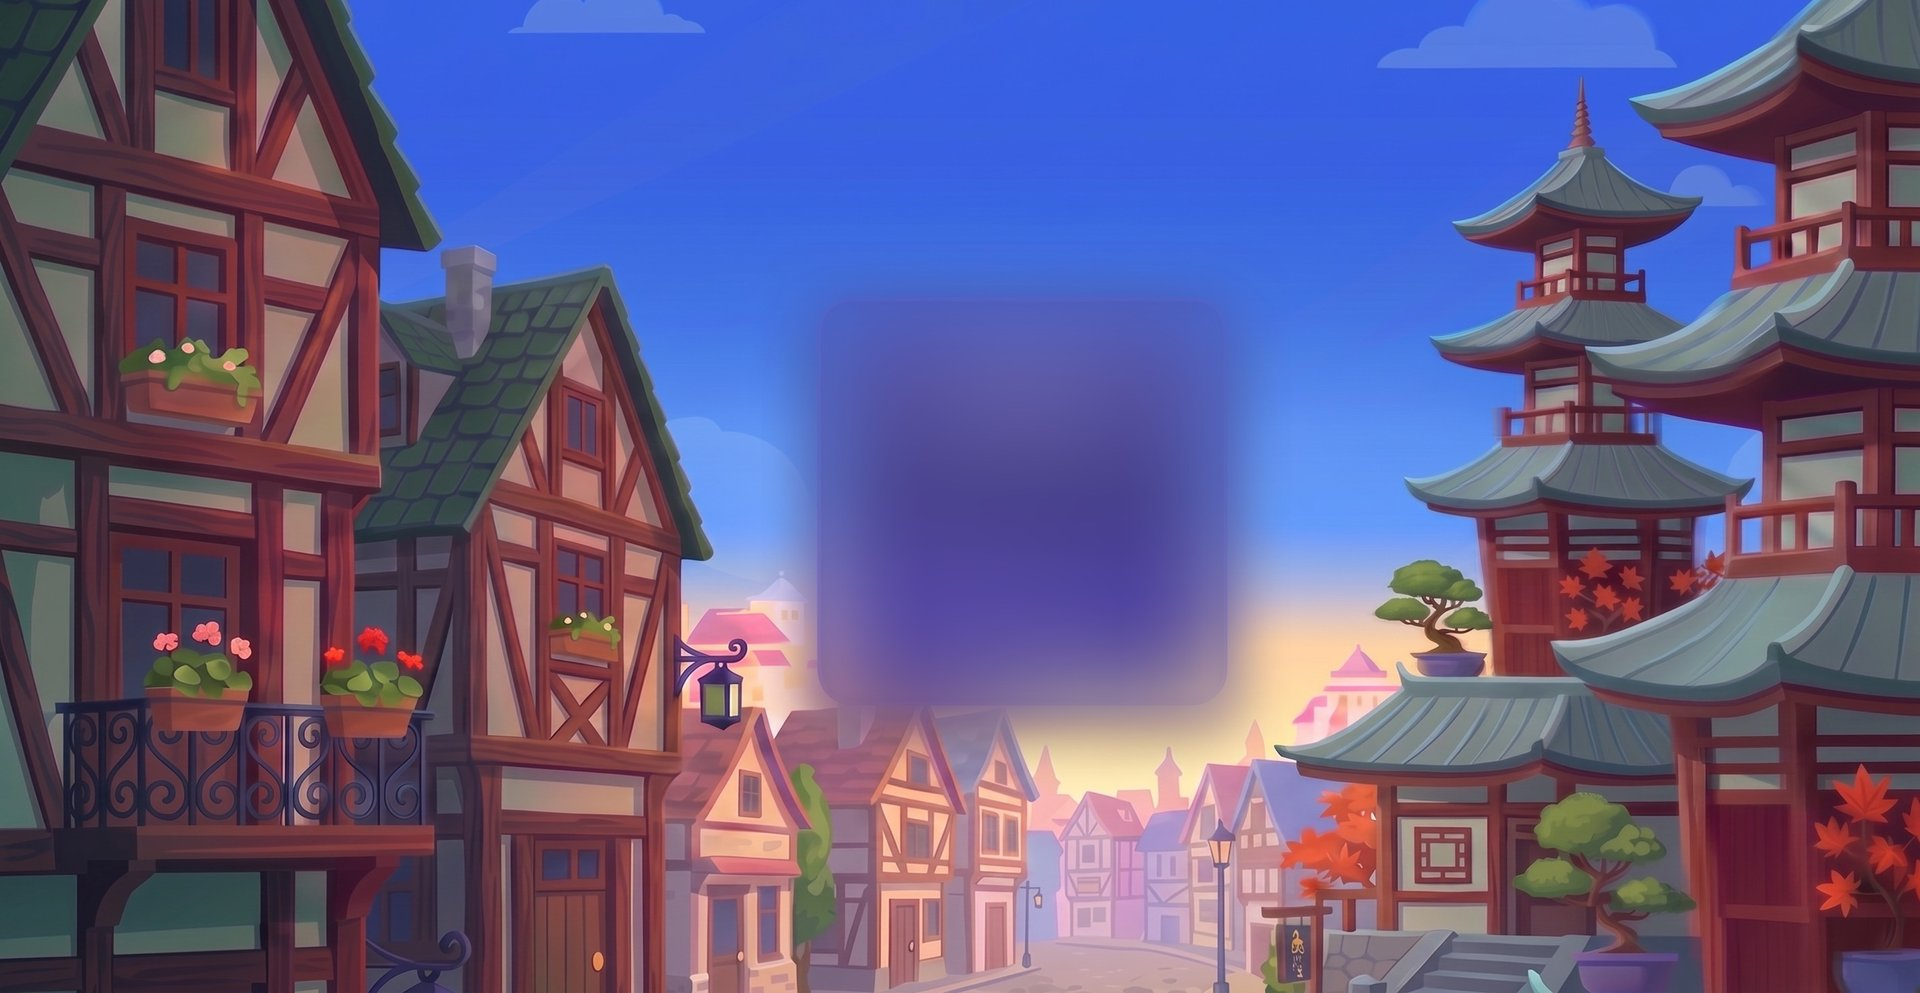
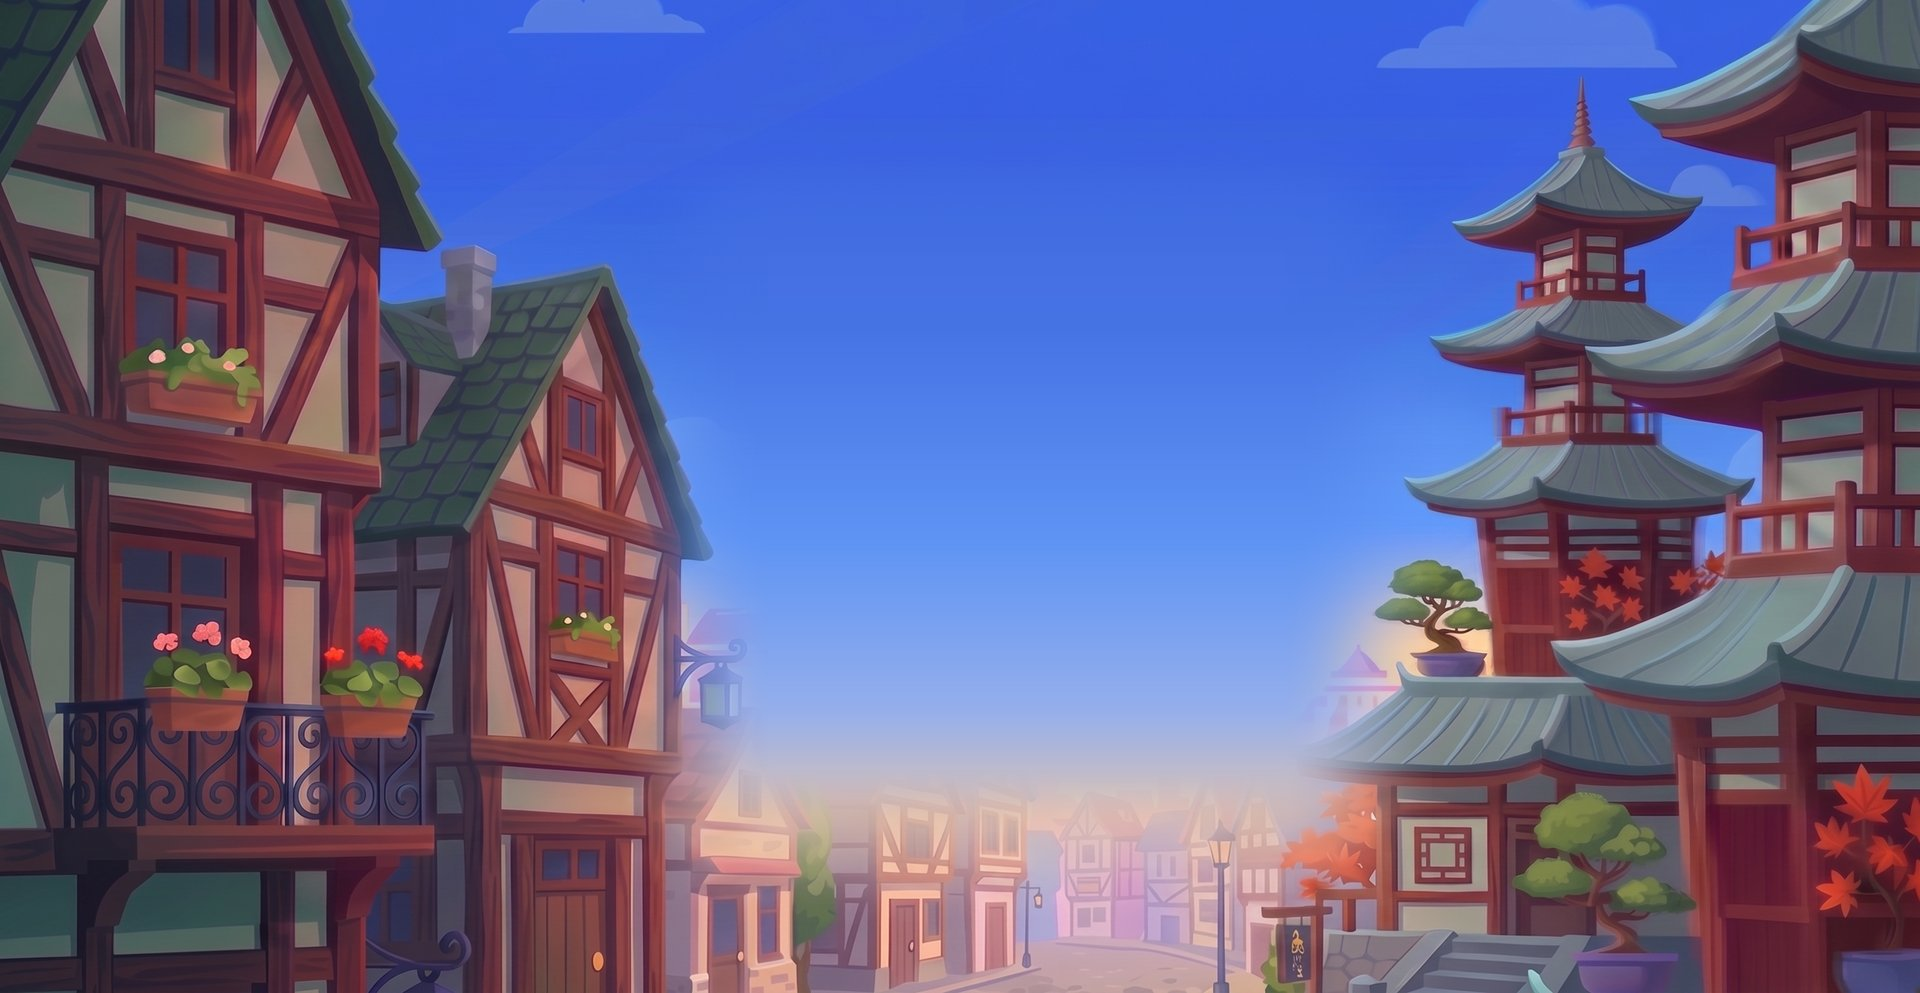
v1.218.0: экран входа — убрал кривую тень за карточкой (была видна как смещённый дубликат карточки на фоне: заплатка на месте вырезанной из референса карточки раньше просто размывала её тёмный индиговый цвет, а тёмное пятно на ярком небе всегда читается как тень независимо от мягкости краёв; заменил

Changed region(s): [[0.3125, 0.281, 0.75, 0.9053]]

diff --git a/src/styles.css b/src/styles.css
@@ -49,6 +49,11 @@ body {
   padding:0 16px; height:48px; color:rgba(255,255,255,.55); transition:background .15s ease, box-shadow .15s ease; }
 .auth2-field:focus-within { background:rgba(0,0,0,.32); box-shadow:0 0 0 2px rgba(255,255,255,.25); color:rgba(255,255,255,.85); }
 .auth2-field input { flex:1; min-width:0; background:transparent; border:none; outline:none; color:#fff; font-size:15px; height:100%; }
+/* Глобальная рамка фокуса (button:focus-visible и т.д. ниже по файлу) — прямоугольная
+   с border-radius:6px, поверх круглой пилюли поля выглядела как «второй кубик»
+   поверх первого. Своя рамка на .auth2-field:focus-within уже даёт понятную
+   подсветку фокуса, эта здесь просто не нужна. */
+.auth2-field input:focus-visible { outline:none; border-radius:0; }
 .auth2-field input::placeholder { color:rgba(255,255,255,.55); }
 .auth2-code { text-align:center; font-size:20px; font-weight:800; letter-spacing:10px; font-family:'JetBrains Mono','Consolas',monospace; }
 .auth2-code::placeholder { letter-spacing:10px; }

diff --git a/src/lib/changelog.ts b/src/lib/changelog.ts
@@ -2,6 +2,7 @@
 export type ChangelogEntry = { version: string; date: string; items: string[] }
 
 export const CHANGELOG: ChangelogEntry[] = [
+  { version: "1.217.0", date: "2026-07-11", items: ["экран входа/регистрации полностью пересобран по новому референсу — карточка без маскота (тот из v1.214.0 убран), новый фон (закатная улица с европейскими и азиатскими домами). Референс был опять цельным AI-макетом с вклеенными карточкой/текстом (включая опечатки \"аклаунт\"/\"Зарегистрараваться\" — в реальном UI, разумеется, правильное написание) — область карточки на фоне заменена мягким саморазмытием (не заливкой цветом: сцена слишком «занятая», ровный градиент смотрелся бы чужеродно), поверх стоит настоящая рабочая карточка на тех же данных/цветах, что использовались раньше. Логика входа не тронута — проверено живьём (логин/регистрация/ошибка/мобильная раскладка), консоль чистая."] },
   { version: "1.216.0", date: "2026-07-11", items: ["убрал ещё одну декоративную звезду с фона экрана входа — та, что была на деревянной стене пагоды между цветочными горшками. Заплатка из соседнего чистого участка стены того же дерева (не заливка цветом — там текстура досок), растушёвана мягче предыдущей."] },
   { version: "1.215.0", date: "2026-07-11", items: ["фикс качества экрана входа — убрал синеватую обводку вокруг маскота (мягкий chroma-key с порогом по яркости + эрозия края вместо жёсткого порога, который оставлял кайму цвета неба и наоборот прогрызал тёмные контуры глаз/носа), убрал случайную вылезшую звёздочку рядом с цветами на балконе (точечная заплатка, без смазывания цветов), расширил растушёвку шва фона с 40 до 90px — почти не видно перехода между фото и подставленным градиентом."] },
   { version: "1.214.0", date: "2026-07-11", items: ["экран входа/регистрации переделан 1-в-1 по референсу — фирменный маскот Ponoi свисает с карточки, пилюли-поля с иконками (юзернейм/email/пароль), градиентная синяя кнопка, \"Присоединяйся к своему миру\". Единственный экран, где сознательно ушли от Discord 1-в-1 — тут наоборот. Фон и маскот — реальные картинки (референс был готовым скриншотом-макетом целиком с текстом внутри; вырезал маскота с прозрачностью через чистый chroma-key по цвету неба и заменил область, где в макете была нарисована карточка, на подобранный по образцу градиент, иначе настоящая карточка накладывалась поверх нарисованной и было видно оба слоя сразу). Логика входа/регистрации не тронута."] },